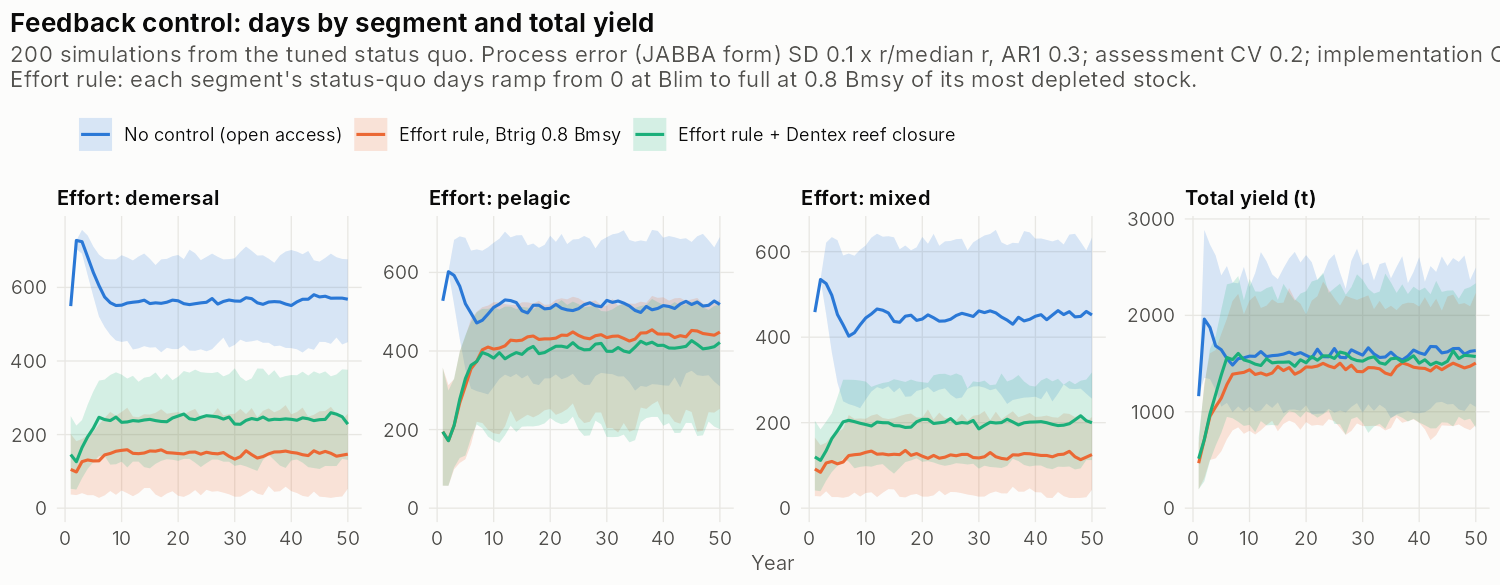
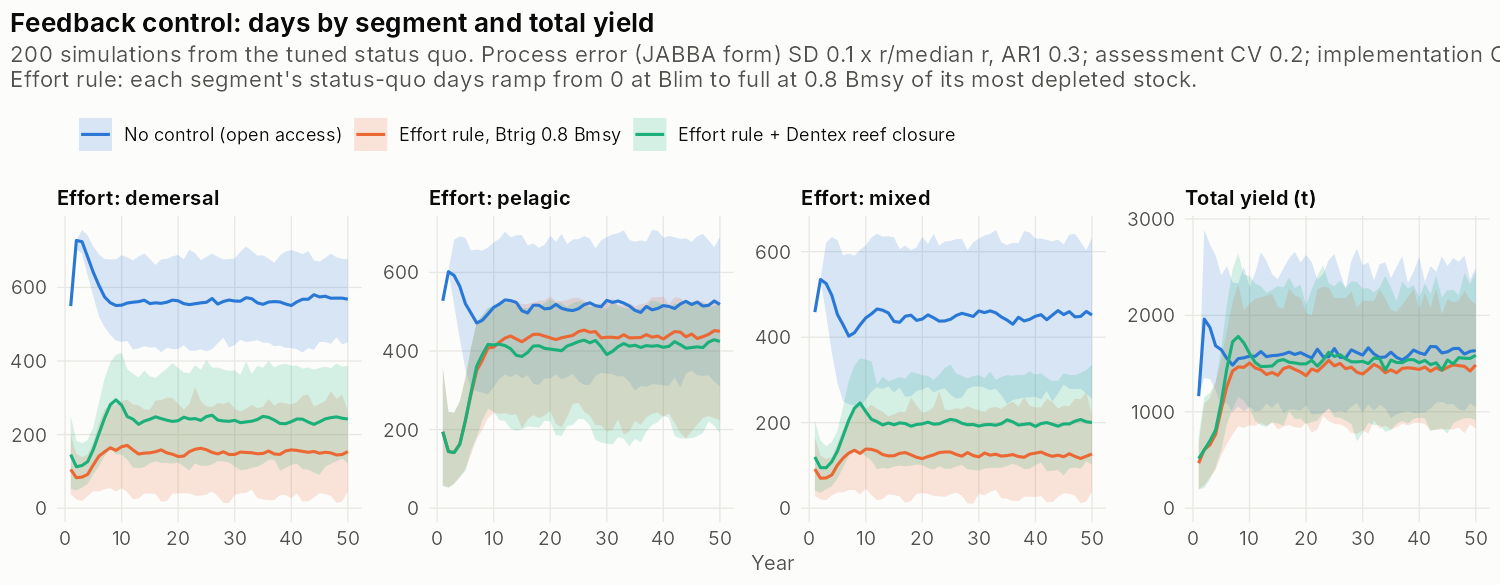
dev-mmsy: 2-year lag between data and advice in feedback control (hcr_lag)
Claude-Session: https://claude.ai/code/session_01N6VjbRjKZChkyPJ4nwFJbR

diff --git a/dev/mmsy/README.md b/dev/mmsy/README.md
@@ -114,6 +114,7 @@ Run the scripts from the repository root, with cpueTargeting installed.
   * A CV of 0.2 is far too large in this form. With CV 0.2 the stocks crash even under the rules: P(any stock < Blim) is 0.67 without control.
 * **Assessment error:** lognormal CV 0.2 on the B/Bmsy the rule sees.
 * **Implementation error:** lognormal CV 0.1 on the effort caps by segment (`impl_cv`, `impl_bias`).
+* **Data lag:** `hcr_lag` = 2 by default. The rule sees the stocks as they were 2 years before the year its advice applies (data year y − 2, assessment y − 1, advice y). Before the projection, the data years are taken to be the status quo.
 
 **The rule (`hcr_effort()`).**
 
@@ -122,26 +123,28 @@ Run the scripts from the repository root, with cpueTargeting installed.
 * `max_change` limits the annual change.
 * A rule may return `list(mult, open)`. A partly closed métier fishes only its open share.
 
-**Fixed trigger 0.8 Bmsy.** 200 simulations; performance over years 31–50. The deterministic status quo has yield 1,745 and profit 1,489.
+**Fixed trigger 0.8 Bmsy, 2-year lag.** 200 simulations; performance over years 31–50. The deterministic status quo has yield 1,745 and profit 1,489.
 
 | Run | Yield | Profit | Days | P(any < Blim) | Worst stock P(B < Bpa) |
 |---|---|---|---|---|---|
 | No control | 1,667 | 1,500 | 1,529 | 0.066 | 0.92 (Dentex) |
-| Effort rule | 1,467 | 2,642 | 690 | 0.004 | 0.60 (Dentex) |
-| Effort rule + reef closure | 1,557 | 2,539 | 832 | 0.004 | 0.054 (Dentex) |
-| Effort rule + closure, ±20% per year | 1,583 | 2,509 | 867 | 0 | 0.053 |
-| Effort rule + closure, no assessment error | 1,617 | 2,374 | 945 | 0 | 0.056 (blackspot seabream) |
+| Effort rule | 1,463 | 2,621 | 695 | 0.004 | 0.57 (Dentex) |
+| Effort rule + reef closure | 1,547 | 2,527 | 830 | 0.004 | 0.11 (Dentex) |
+| Effort rule + closure, ±20% per year | 1,567 | 2,503 | 856 | 0.004 | 0.11 (Dentex) |
+| Effort rule + closure, no assessment error | 1,610 | 2,390 | 937 | 0 | 0.15 (Dentex) |
 
 **The trigger as a tuning parameter (`ms_tune_hcr()`).**
 
 * A grid of triggers runs in one vectorised call with common random numbers (`crn`): every trigger sees the same process, assessment and implementation errors.
 * The tuned rule has the highest yield among the triggers that meet the risk limit: every stock below Bpa at most 5% of the time (years 31–50).
 
-| Rule | Tuned trigger(s) | Yield | Profit | Days |
-|---|---|---|---|---|
-| Effort rule only | none up to 1.5 Bmsy meets the limit (1.5 gives 15%) | — | — | — |
-| Effort rule + closure, one shared trigger | 0.85 | 1,538 | 2,587 | 801 |
-| Separate triggers | effort 0.6, closure 3.0 | 1,606 | 2,209 | 1,023 |
+| Rule | Tuned trigger(s), no lag | Tuned trigger(s), 2-year lag (default) | Yield (lag 2) | Profit (lag 2) | Days (lag 2) |
+|---|---|---|---|---|---|
+| Effort rule only | none up to 1.5 Bmsy | none (1.5 Bmsy gives 20%) | — | — | — |
+| Effort rule + closure, one shared trigger | 0.85 (yield 1,538) | 1.00 | 1,467 | 2,673 | 723 |
+| Separate triggers | effort 0.6, closure 3.0 (yield 1,606) | effort 0.6, closure 3.0 | 1,603 | 2,206 | 1,022 |
+
+* **The lag hurts the shared-trigger rule but barely touches separate triggers.** The shared trigger has to rise from 0.85 to 1.00 Bmsy, costing about 5% of yield. With separate triggers the same values still pass (risk 3.0% → 4.4%), because the high closure trigger already gives Dentex a margin.
 
 * **The closure decouples the choke species.** With separate triggers, the effort rule can be lenient (0.6), while the reef is partly closed until Dentex is well above Bmsy. A permanent full closure is close behind (1,572).
 * **Yield is about 4% below no control, with profit up 47% and the risk limit met.** With one shared trigger, yield is lower and profit higher.
